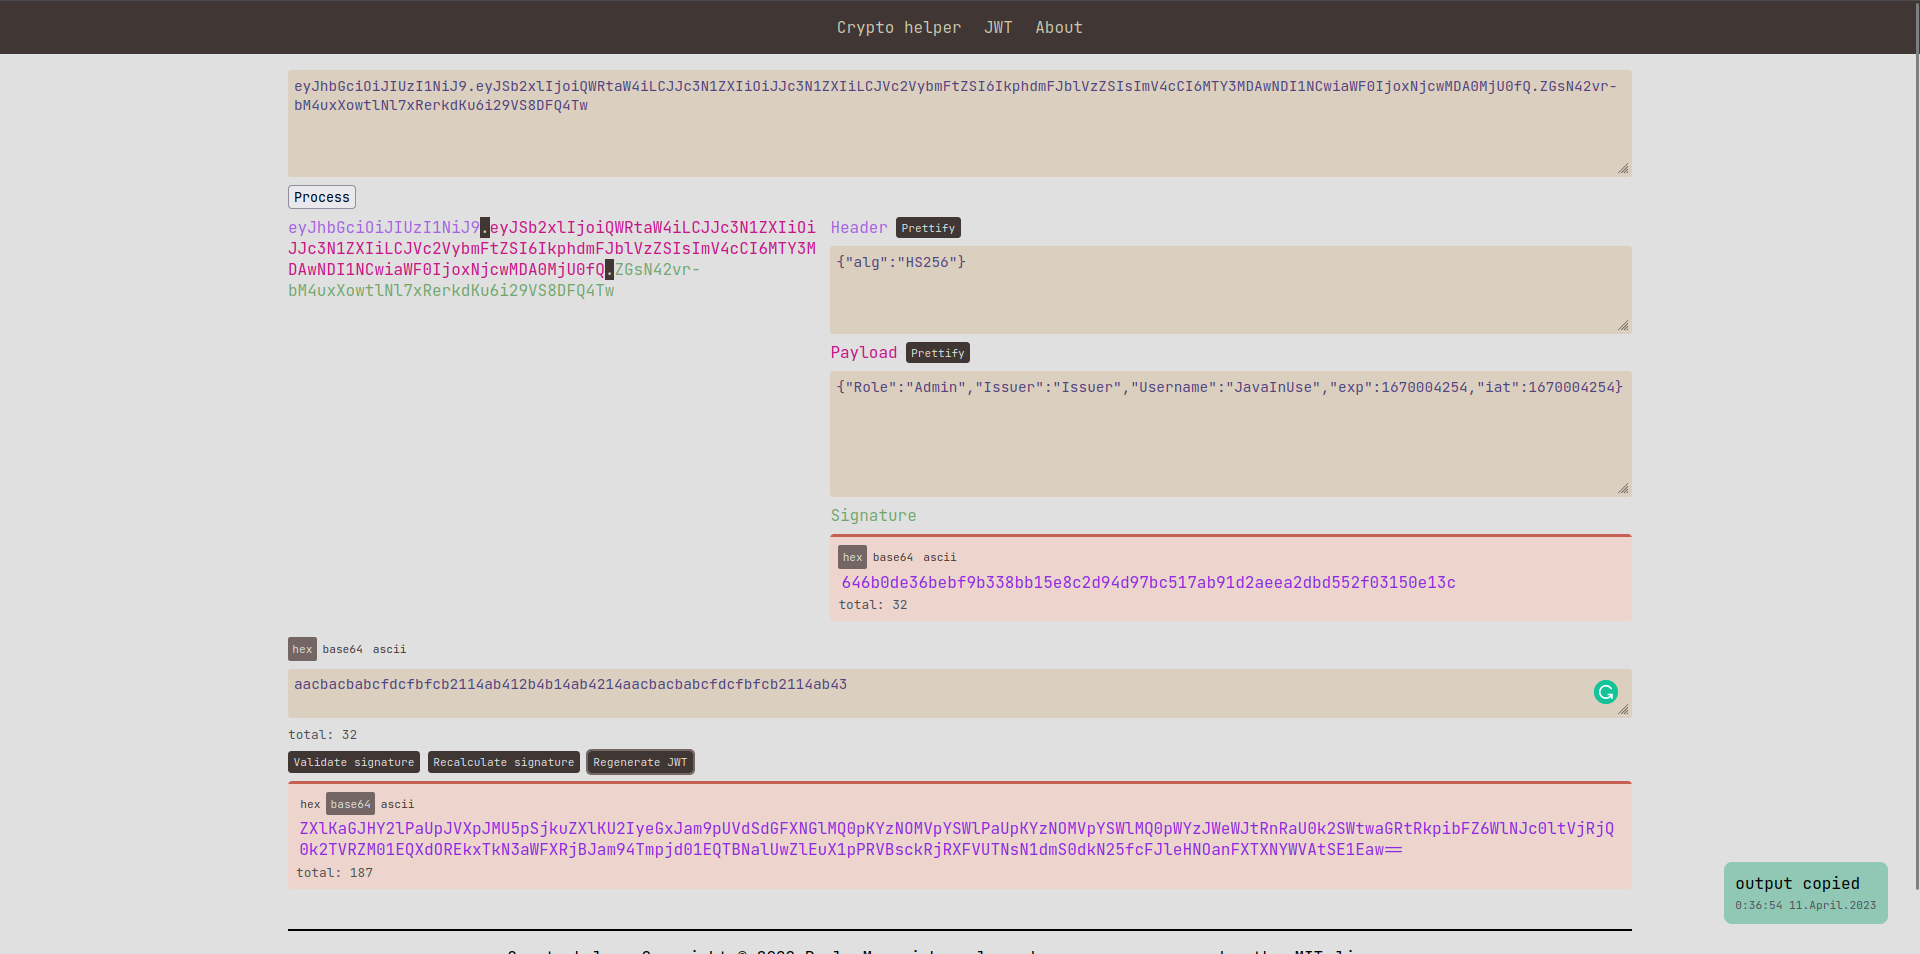
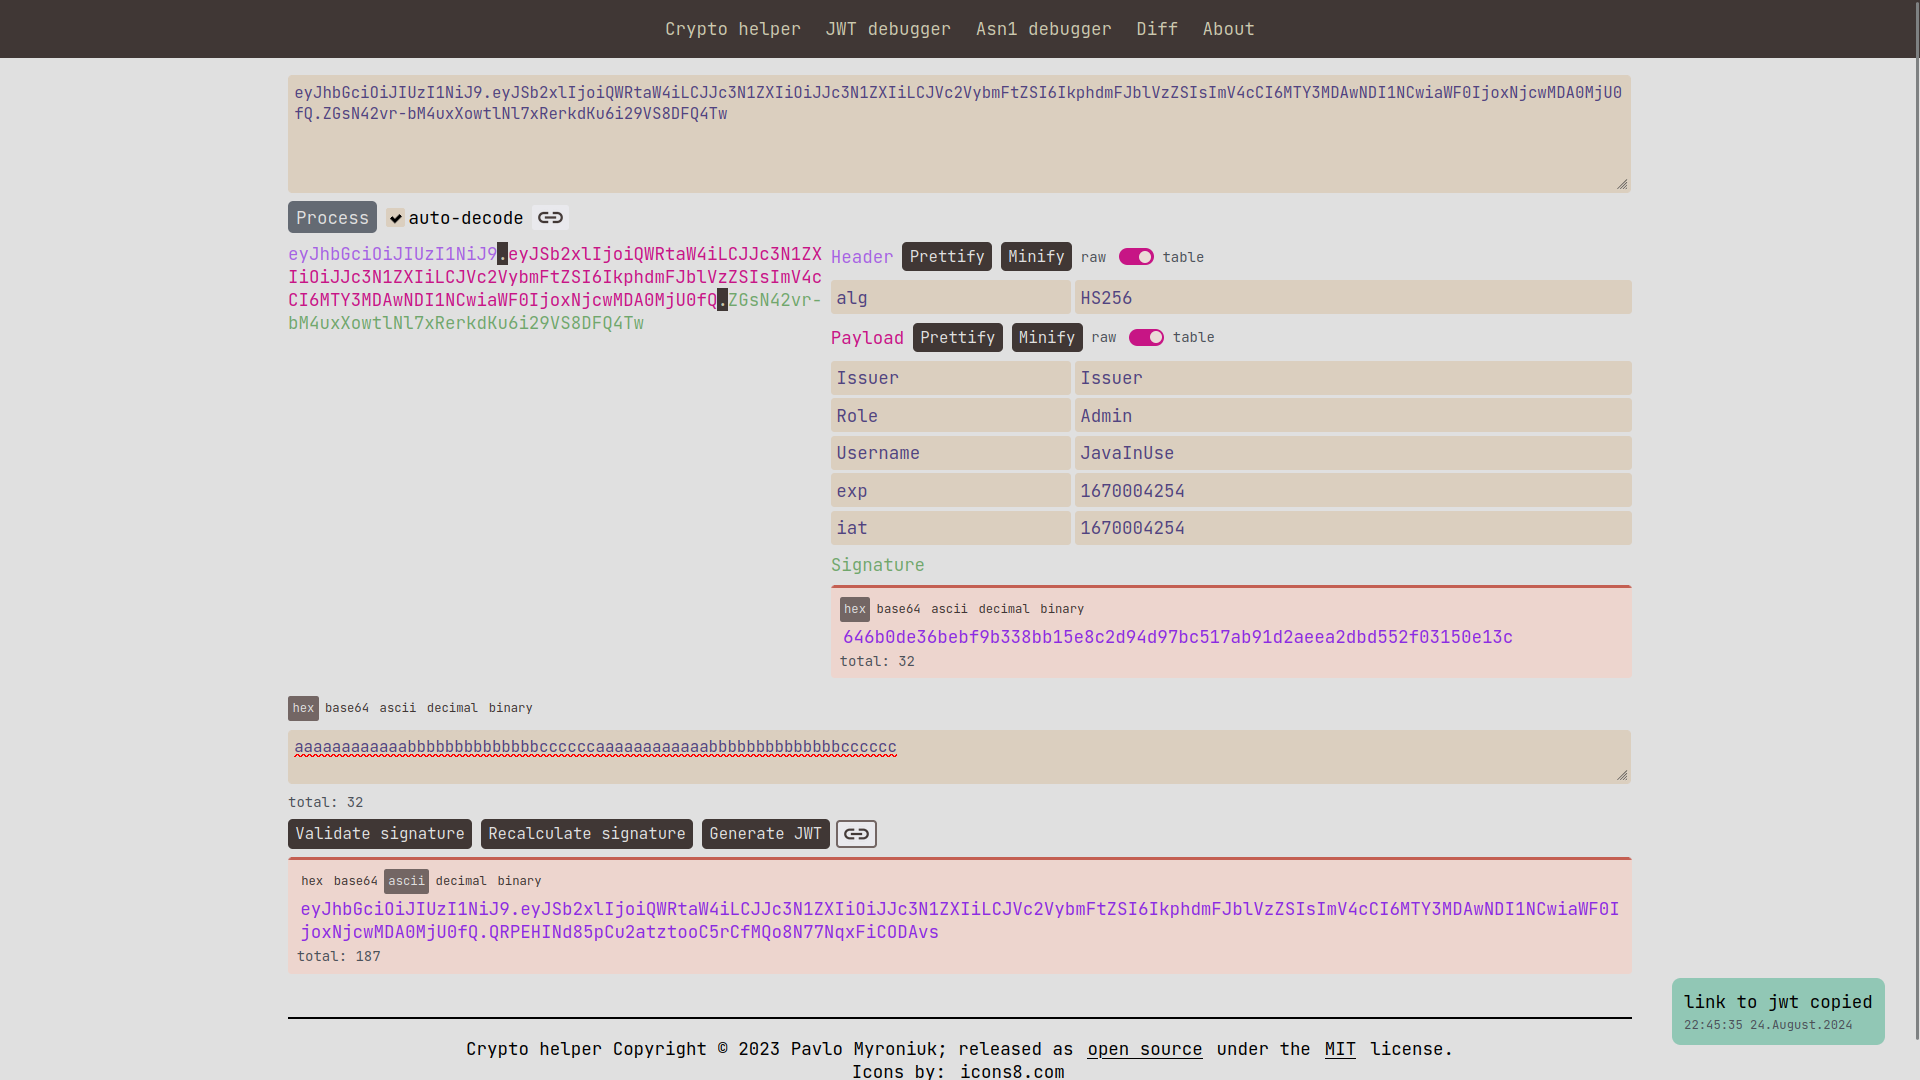
Update the `crypto-helper` page (#15)

diff --git a/content/projects/crypto-helper/index.md b/content/projects/crypto-helper/index.md
@@ -1,7 +1,7 @@
 +++
 title = "crypto-helper"
 description = "Web app that can hash/encrypt/sign the data. JWT debugger."
-date = 2023-04-09
+date = 2024-08-24
 draft = false
 
 [taxonomies]
@@ -14,21 +14,32 @@ keywords = "Rust, Yew, Crypto, JWT, Encrypt, Decrypt, Hash, HMAC, MAC, RSA"
 
 Visit this tool at [crypto.qkation.com](https://crypto.qkation.com).
 
-The crypto-helper is an online app that helps to work with the different crypto algorithms. This app can hash/hmac, encrypt/decrypt, and sign/verify the data, debug the JWT tokens. All computations are performed on the client side. This tool never sends the data the any servers.
+The crypto-helper is an online app that helps to work with the different crypto algorithms. This app can hash/hmac, encrypt/decrypt, and sign/verify the data, debug JWT tokens, parse ASN1 structures, compute diffs, and more. All computations are performed on the client side. _This tool never sends the data the any servers._
 
-### Motivation
+## Motivation
 
-#### Crypto helper
+### Crypto helper
 
-During my work, I often need to work with bytes sequences that I need to encrypt or decrypt, hash or verify. For example, I might intercept the traffic, extract encrypted Kerberos cipher data, and try to decrypt it using the user's password. Or take payload + signature from the message and try to recalculate it. Such small tasks are very annoying and I decided to optimize them.
+During my work, I often need to work with bytes sequences that I need to encrypt or decrypt, hash or verify. For example, I might intercept the traffic, extract encrypted Kerberos cipher data, and try to decrypt it using the user's password. Or take payload + signature from the message and try to recalculate it. Such small tasks are very annoying and I decided to optimize this proccess.
 
-Basically, it just takes the input bytes in some format and performs the selected algorithm on it.
+Basically, it just takes the input bytes in some format and applies the selected algorithm to it.
 
 {{ img(src="crypto-helper-demo-krb.png" alt="crypto helper krb encryption demo") }}
 
-#### JWT debugger
+The list of supported algorithms:
 
-Another interesting feature is the JWT debugger. I had some time working with Azure AD authorization and its JWT tokens. Why did I decide to implement my own if [jwt.io](https://jwt.io) already exists? The answer is pretty obvious: the existing one is very inconvenient:
+* `Argon2`
+* `BCrypt`
+* `MD5`
+* `SHA1`/`SHA256`/`SHA384`/`SHA512`
+* Kerberos ciphers: `AES128-CTS-HMAC-SHA1-96`/`AES256-CTS-HMAC-SHA1-96`
+* Kerberos HMAC: `HMAC-SHA1-96-AES128`/`HMAC-SHA1-96-AES256`
+* RSA
+* Compression: `ZLIB`
+
+### JWT debugger
+
+Another interesting feature is the JWT debugger. I had some time working with Azure AD authorization and its JWT tokens. Why did I decide to implement my own if [jwt.io](https://jwt.io) already exists? The answer is pretty obvious: the existing one is very inconvenient.
 
 * I really don't like its big header. AzureAD tokens are pretty big. Such a massive header is just a waste of space.
 * Problems with scrolling. Did you ever try to scroll the header or payload section that contains more than five fields? If not then try.
@@ -36,37 +47,72 @@ Another interesting feature is the JWT debugger. I had some time working with Az
 * Every header/payload/key change immediately overwrites the original JWT token. I often want to see the original one, compare it to a new one, or create a few different tokens based on the initial token.
 * Ads. Ads. Ads.
 
-Here is how my JWT debugger in action:
+Here is my JWT debugger in action:
 
 {{ img(src="jwt-demo.png" alt="JWT demo") }}
 
-#### Features
+Supported signature algorithms:
+
+* `none`
+* `HS256`
+* `HS384`
+* `HS512`
+* `RS256`
+* `RS384`
+* `RS512`
+* `ES256`
+* `ES384`
+* `ES512`
+
+### ASN1 debugger
+
+Did you hear anything about [ASN1 der](https://luca.ntop.org/Teaching/Appunti/asn1.html)? If not, then this tool is not for you :sweat_smile: If yes and you work with asn1 structures encoding/decoding a lot, then you are at the right place :wink:.
+
+The purpose of this tool is to parse input bytes as the [asn1 der](https://luca.ntop.org/Teaching/Appunti/asn1.html) structure and render the structural representation of it alongside the hex view of its fields and data. A list of supported asn1 types can be found [here](https://github.com/TheBestTvarynka/crypto-helper/tree/main/crates/asn1-parser#supported-asn1-types). Long story short, here is a demo:
+
+![](./asn1-demo.png)
+
+I think you got it. Basically, it's a reimplementation of [lapo.it/asn1js](https://lapo.it/asn1js) but with my features and my design. There are some of them:
+
+* Ability to copy asn1 node or node inner value.
+* Decode on `ctrl + enter`.
+* Different hex view. I compare parsed structure with its hex representation very often, so I need more explicit and highlighted bytes rendering.
+
+To implement it, the custom asn1 parser crate has been written: [asn1-parser](https://github.com/TheBestTvarynka/crypto-helper/tree/main/crates/asn1-parser).
+
+> **Yet another `asn1` parser? ([https://users.rust-lang.org/t/comparison-of-way-too-many-rust-asn-1-der-libraries](https://users.rust-lang.org/t/comparison-of-way-too-many-rust-asn-1-der-libraries))**
+
+![well yes, but actually no](https://i.imgflip.com/8789zm.jpg)
+
+It parses the asn1 types and remembers their position in the input data stream. It is a useful feature for pretty rendering.
+
+### Diff checker
+
+The purpose of the [diff-checker](https://crypto.qkation.com/diff) is to just show the diff using selected diff algorithms. It lacks many modern diff-tool features. Most likely it will never have them implemented. The purpose of this tool is only to cover a few specific edge cases.
+
+![](./diff-demo.png)
+
+I use it from time to time for raw data diff computation using different diff algorithms. Most likely you will never need this feature but at least it is needed by me and doesn't contain any ads.
+
+## The journey
 
 * Written in [Rust](https://github.com/rust-lang/rust) :crab: using [yew](https://github.com/yewstack/yew) :sparkles:
-* `MD5`
-* `SHA1`/`SHA256`/`SHA512`
-* Kerberos ciphers: `AES128-CTS-HMAC-SHA1-96`/`AES256-CTS-HMAC-SHA1-96`
-* Kerberos HMAC: `HMAC-SHA1-96-AES128`/`HMAC-SHA1-96-AES256`
-* `RSA`
-* JWT debugger. Supported signature algorithms:
-  * `none`
-  * `HS256`
-  * `HS384`
-  * `HS512`
-  * `RS256`
-  * `RS384`
-  * `RS512`
 
-### Languages
+It's a fun story because I rewrote this tool two times. Firstly, I planned to make it very simple and started implementing using plain `html`/`css`/`js`. Then I realized that it's hard to improve, and maintain, and can cause a lot of stupid bugs. The second choice was `React`. In the middle of the rewriting, I thought: why do not write it in `Rust`?
 
-It's a fun story because I rewrote this tool two times. Firstly, I plan to make it very simple and start implementing using plain html/css/js. Then I realized that it's hard to improve, maintain, and cause a lot of stupid bugs. The second choice was React. In the middle of the rewriting, I thought: why not write it in Rust?
+After some research, I decided to use the [Yew](https://github.com/yewstack/yew) framework. Basically, it's like `React` but for `Rust`. From my experience, I can tell that *yew* is a great framework to write web applications ([SPA](https://en.wikipedia.org/wiki/Single-page_application)s) in `Rust`. It works well, has great documentation, and is easy to work with. I have faced only one problem: styling. We don't have (so far) such convenient libraries for stlyling as we have for `React`.
 
-After some research, I decided to use the [Yew](https://github.com/yewstack/yew) framework. Basically, it's like React but for Rust. From my experience, I can tell that *yew* is a great framework to write web applications (SPAs) in Rust. It works well, has great documentation, and is easy to work with. I faced only one problem: styling. We don't have (so far) such convenient libraries as we have for React.
+I'm happy that I wrote this tool. I use it very often and learned a lot during the implementation. I have had to deal with the web frontend in Rust, web assembly, web workers, application designing and implementation, writing custom asn1 parser, deploying, and much more.
 
-### How to use it
+## How to use it
 
-Just follow [the link](https://crypto.qkation.com/) and paste your data. The interface is pretty intuitive.
+Just follow [the link](https://crypto.qkation.com/) and paste your data. As you can see, the interface is pretty intuitive.
 
-### Moving further
+## Moving further
 
 At this point, this tool has the all needed functionality for me. I plan to improve it continuously according to my needs and goals. If you have any feature requests, then create an [issue](https://github.com/TheBestTvarynka/crypto-helper/issues/new) with the description. It'll be a priority for me.
+
+## Doc, references, code
+
+* Visit this tool at [crypto.qkation.com](https://crypto.qkation.com).
+* Source code: [TheBestTvarynka/crypto-helper](https://github.com/TheBestTvarynka/crypto-helper).
